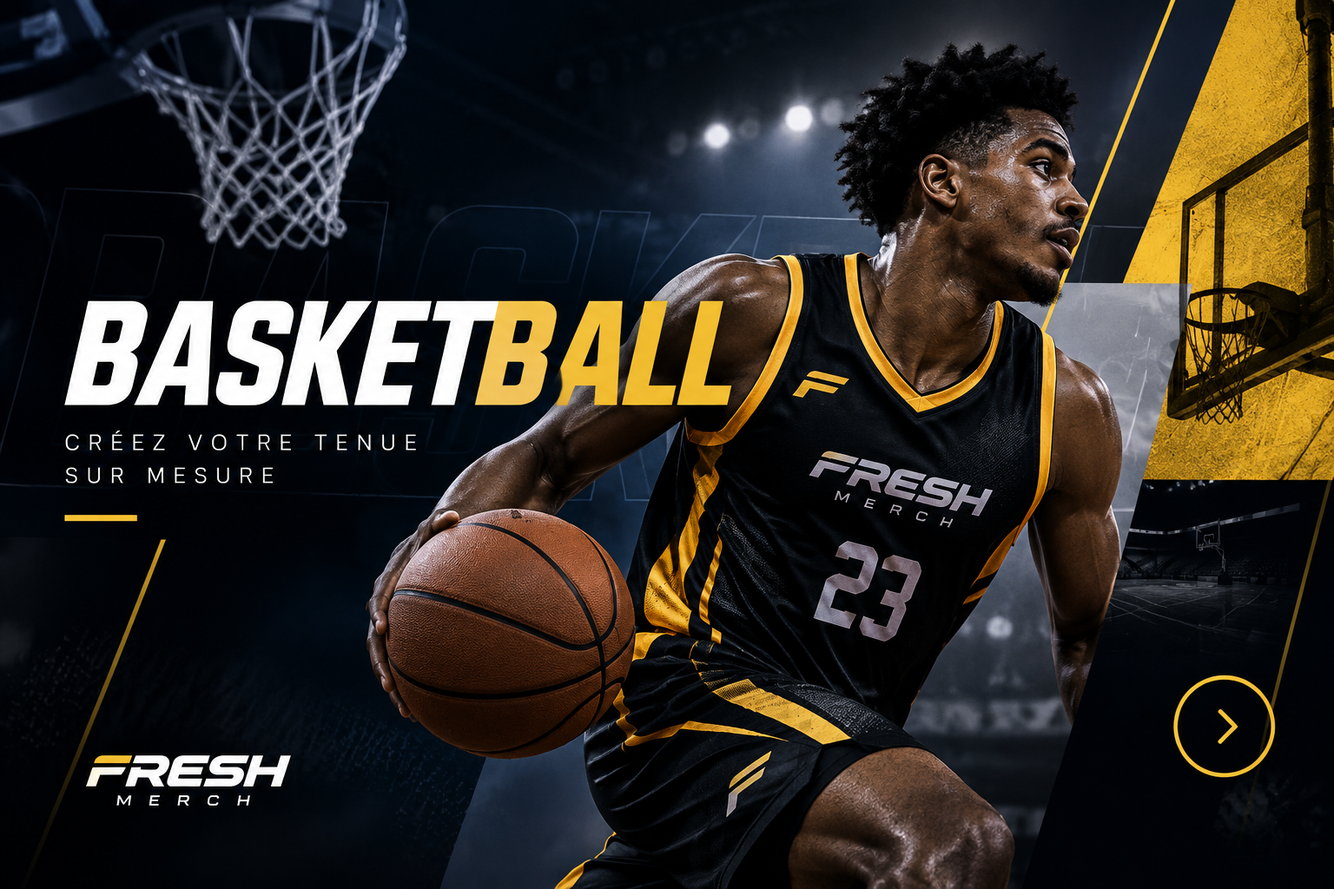
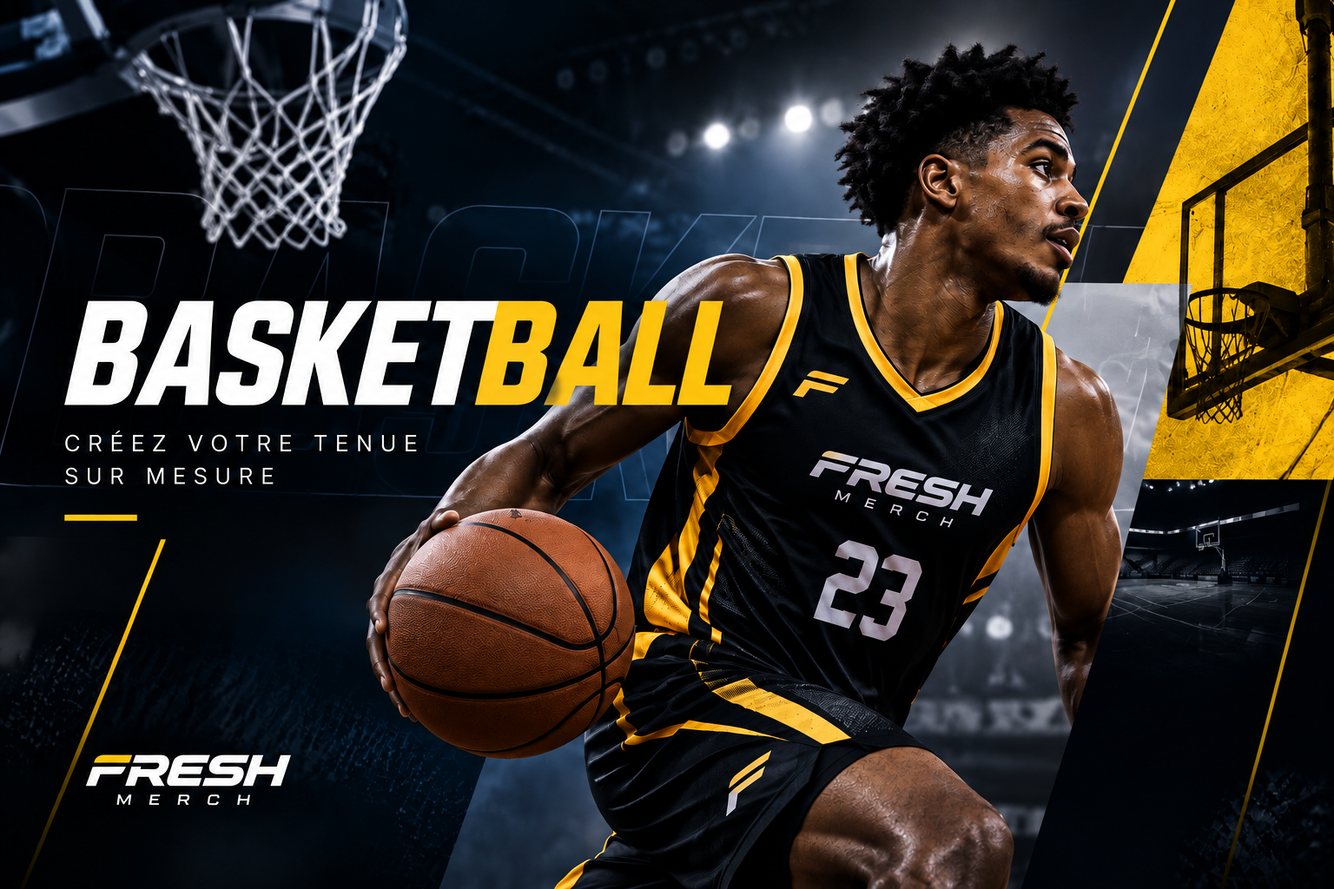
Improve mobile experience, fix layout bugs, and switch forms to FormSubmit
- Clean up and extend mobile CSS (dead selectors removed, missing
  breakpoints added, touch targets, header crowding on small phones)
- Add mobile menu accessibility (aria-modal, Escape to close, focus
  management, inert background)
- Fix stray overlay hiding a photo, remove empty sections, restore
  orphaned sport card descriptions, correct section numbering
- Link footer Instagram button to the real account
- Replace mailto: form submissions with FormSubmit so quote requests
  (including file attachments) are actually delivered by email

diff --git a/index.html b/index.html
@@ -28,14 +28,19 @@ input::placeholder,textarea::placeholder{color:rgba(255,255,255,.45)}
   #top [data-m="nav"],#top [data-m="headercta"]{display:none!important}
   #top [data-m="burger"]{display:inline-flex!important}
   #top header{padding:10px 16px!important}
-  #top [style*="padding: 110px 24px"],#top [style*="padding: 100px 24px"],#top [style*="padding: 110px 24px 90px"],#top [style*="padding: 110px 24px 60px"],#top [style*="padding: 80px 24px 100px"],#top [style*="padding: 110px 24px 80px"]{padding:64px 20px!important}
+  #top header>div{gap:12px!important}
+  #top [style*="padding: 110px 24px"],#top [style*="padding: 100px 24px"],#top [style*="padding: 110px 24px 90px"],#top [style*="padding: 80px 24px 100px"],#top [style*="padding: 110px 24px 80px"]{padding:64px 20px!important}
   #top [style*="padding: 72px 24px 40px"]{padding:40px 20px 16px!important}
+  #top [style*="padding: 40px 44px"]{padding:28px 22px!important}
   #top [style*="position: sticky"]:not(header){position:static!important;top:auto!important}
   #top [style*="min-height: 420px"]{min-height:300px!important}
-  #top [style*="grid-template-columns: minmax(0, 1.25fr) minmax(0, 0.75fr)"]{grid-template-columns:1fr!important}
   #top aside[aria-hidden="true"]{display:none!important}
   #top [style*="gap: 64px"]{gap:36px!important}
   #top footer{padding:48px 20px 20px!important}
+  #top [style*="aspect-ratio: 3 / 2"] img[style*="object-fit: cover"]{object-position:50% 22%!important}
+  #top [style*="min-height: 42px"]{min-height:44px!important}
+  #top [style*="padding: 10px 18px"]{min-height:44px;padding:12px 18px!important}
+  #top [style*="padding: 8px 14px 8px 8px"]{min-height:44px;padding:12px 16px 12px 8px!important}
 }
 @media (max-width:520px){
   #top{font-size:16px!important}
@@ -43,12 +48,16 @@ input::placeholder,textarea::placeholder{color:rgba(255,255,255,.45)}
   #top [style*="font-size: clamp(44px, 6.4vw, 84px)"],#top [style*="font-size: clamp(44px, 6.5vw, 92px)"]{font-size:clamp(36px,11vw,48px)!important}
   #top [style*="font-size: clamp(40px, 5.5vw, 76px)"]{font-size:clamp(32px,10vw,44px)!important}
   #top [style*="font-size: 19px"],#top [style*="font-size: 18px"]{font-size:16px!important}
+  #top [style*="font-size: 28px"]{font-size:22px!important}
+  #top [style*="font-size: 26px"]{font-size:21px!important}
   #top [style*="display: flex; gap: 12px; flex-wrap: wrap"] > a,#top [style*="display: flex; gap: 12px; flex-wrap: wrap"] > button{width:100%!important;justify-content:center!important}
-  #top [style*="gap: 36px; margin-top: 44px"]{gap:18px 24px!important;margin-top:28px!important}
-  #top [style*="min-height: 300px"]{min-height:240px!important}
-  #top [style*="padding: 54px 48px"]{padding:32px 24px!important}
+  #top [style*="gap: 36px; margin-top: 44px"],#top [style*="gap: 32px; margin-top: 44px"]{gap:18px 24px!important;margin-top:28px!important}
+  #top [style*="min-height: 420px"]{min-height:240px!important}
+  #top [style*="padding: 32px 28px"]{padding:22px 20px!important}
   #top [style*="aspect-ratio: 4 / 5"]{aspect-ratio:1!important}
-  #top [data-m="burger"] ~ *{margin-left:0}
+  #top header>div{gap:8px!important}
+  #top header button[aria-pressed]{padding:0!important;width:44px;height:44px;justify-content:center;min-height:44px!important}
+  #top header button[aria-pressed] span:not([aria-hidden]){display:none}
 }
 
 /* ---- MODE CLAIR : remappe les couleurs inline (sérialisées en rgb par le navigateur) ---- */
@@ -92,16 +101,16 @@ html[data-theme="light"] #top img[src*="jersey-cutout"],html[data-theme="light"]
         <a href="studio.html" style="white-space:nowrap" style-hover="color:#fff">Studio</a>
         <a href="#a-propos" style="white-space:nowrap" style-hover="color:#fff">À propos</a>
       </nav>
-      <button type="button" onClick="{{ toggleTheme }}" aria-pressed="{{ isLight }}" aria-label="{{ themeAria }}" style="display:inline-flex;align-items:center;gap:8px;min-height:42px;padding:0 14px;border-radius:999px;border:1px solid rgba(255,255,255,.18);background:transparent;color:#fff;font:inherit;font-size:12px;font-weight:700;letter-spacing:.06em;cursor:pointer;white-space:nowrap;flex-shrink:0" style-hover="border-color:#ffed00"><span aria-hidden="true" style="width:10px;height:10px;border-radius:50%;background:#ffed00;box-shadow:0 0 0 3px rgba(255,237,0,.25);flex-shrink:0"></span>{{ themeLabel }}</button>
+      <button type="button" onClick="{{ toggleTheme }}" aria-pressed="{{ isLight }}" aria-label="{{ themeAria }}" style="display:inline-flex;align-items:center;gap:8px;min-height:42px;padding:0 14px;border-radius:999px;border:1px solid rgba(255,255,255,.18);background:transparent;color:#fff;font:inherit;font-size:12px;font-weight:700;letter-spacing:.06em;cursor:pointer;white-space:nowrap;flex-shrink:0" style-hover="border-color:#ffed00"><span aria-hidden="true" style="width:10px;height:10px;border-radius:50%;background:#ffed00;box-shadow:0 0 0 3px rgba(255,237,0,.25);flex-shrink:0"></span><span>{{ themeLabel }}</span></button>
       <a data-m="headercta" href="#devis" style="position:relative;display:inline-flex;align-items:center;gap:10px;min-height:42px;padding:0 18px;border-radius:999px;background:#ffed00;color:#101827;font-size:13px;font-weight:700;white-space:nowrap;flex-shrink:0;overflow:hidden;box-shadow:0 0 0 0 rgba(255,237,0,.55);animation:fmPulse 2.8s ease-out infinite;transition:transform .25s cubic-bezier(.2,.75,.2,1),box-shadow .25s" style-hover="background:#fff45c;color:#101827;transform:translateY(-2px);box-shadow:0 10px 26px rgba(255,237,0,.35)"><span aria-hidden="true" style="position:absolute;top:0;bottom:0;left:-40%;width:40%;background:linear-gradient(100deg,transparent,rgba(255,255,255,.75),transparent);transform:skewX(-20deg);animation:fmShine 2.8s ease-in-out infinite"></span><span style="position:relative">Demander un devis</span> <span aria-hidden="true" style="position:relative;display:inline-block;transition:transform .25s cubic-bezier(.2,.75,.2,1)">↗</span></a>
-      <button data-m="burger" type="button" onClick="{{ toggleMenu }}" aria-expanded="{{ menuOpen }}" aria-label="{{ menuAria }}" style="display:none;align-items:center;justify-content:center;width:44px;height:44px;border-radius:50%;border:1px solid rgba(255,255,255,.18);background:transparent;color:#fff;cursor:pointer;flex-shrink:0;margin-left:auto"><span aria-hidden="true" style="display:flex;flex-direction:column;gap:5px"><i style="display:block;width:20px;height:2px;background:currentColor;border-radius:2px"></i><i style="display:block;width:20px;height:2px;background:currentColor;border-radius:2px"></i></span></button>
+      <button id="fm-burger-btn" data-m="burger" type="button" onClick="{{ toggleMenu }}" aria-expanded="{{ menuOpen }}" aria-label="{{ menuAria }}" style="display:none;align-items:center;justify-content:center;width:44px;height:44px;border-radius:50%;border:1px solid rgba(255,255,255,.18);background:transparent;color:#fff;cursor:pointer;flex-shrink:0;margin-left:auto"><span aria-hidden="true" style="display:flex;flex-direction:column;gap:5px"><i style="display:block;width:20px;height:2px;background:currentColor;border-radius:2px"></i><i style="display:block;width:20px;height:2px;background:currentColor;border-radius:2px"></i></span></button>
     </div>
   </header>
   <sc-if value="{{ menuOpen }}" hint-placeholder-val="{{ false }}">
-  <div data-m="menu" role="dialog" aria-label="Menu" style="position:fixed;inset:0;z-index:60;background:#020711;display:flex;flex-direction:column;padding:20px 24px 32px;overflow:auto">
+  <div id="fm-menu-panel" data-m="menu" role="dialog" aria-modal="true" aria-label="Menu" style="position:fixed;inset:0;z-index:60;background:#020711;display:flex;flex-direction:column;padding:20px 24px 32px;overflow:auto">
     <div style="display:flex;align-items:center;justify-content:space-between;gap:16px">
       <img src="assets/freshmerch-logo.png" alt="FreshMerch" style="height:30px;width:auto">
-      <button type="button" onClick="{{ toggleMenu }}" aria-label="Fermer le menu" style="width:44px;height:44px;border-radius:50%;border:1px solid rgba(255,255,255,.18);background:transparent;color:#fff;font:inherit;font-size:20px;cursor:pointer">✕</button>
+      <button id="fm-menu-close-btn" type="button" onClick="{{ toggleMenu }}" aria-label="Fermer le menu" style="width:44px;height:44px;border-radius:50%;border:1px solid rgba(255,255,255,.18);background:transparent;color:#fff;font:inherit;font-size:20px;cursor:pointer">✕</button>
     </div>
     <nav aria-label="Navigation mobile" style="display:flex;flex-direction:column;margin:auto 0;padding:32px 0">
       <a href="#accueil" onClick="{{ closeMenu }}" style="display:flex;justify-content:space-between;align-items:baseline;padding:16px 0;border-bottom:1px solid rgba(255,255,255,.13);font-family:'Space Grotesk',sans-serif;font-weight:600;font-size:clamp(30px,9vw,44px);letter-spacing:-.04em;color:#fff">Accueil<span style="font:13px 'DM Sans',sans-serif;color:#98a6bc">01</span></a>
@@ -130,7 +139,6 @@ html[data-theme="light"] #top img[src*="jersey-cutout"],html[data-theme="light"]
         <div style="display:flex;gap:36px;margin-top:44px;padding-top:22px;border-top:1px solid rgba(255,255,255,.13);flex-wrap:wrap">
           <div style="display:flex;flex-direction:column;gap:4px"><strong style="font-family:'Space Grotesk',sans-serif;font-size:22px;font-weight:600">Design</strong><span style="font-size:11px;letter-spacing:.16em;color:#98a6bc">INCLUS DANS CHAQUE PROJET</span></div>
           <div style="display:flex;flex-direction:column;gap:4px"><strong style="font-family:'Space Grotesk',sans-serif;font-size:22px;font-weight:600">48 h</strong><span style="font-size:11px;letter-spacing:.16em;color:#98a6bc">RÉPONSE AU DEVIS</span></div>
-          <div style="display:flex;flex-direction:column;gap:4px"></div>
         </div>
       </div>
 
@@ -152,7 +160,7 @@ html[data-theme="light"] #top img[src*="jersey-cutout"],html[data-theme="light"]
   <!-- UNIVERS -->
   <section data-reveal="" id="univers" style="padding:110px 24px;background:#020711">
     <div style="max-width:1240px;margin:0 auto">
-      <div style="display:flex;justify-content:space-between;align-items:end;gap:40px;flex-wrap:wrap;margin-bottom:56px">
+      <div style="display:flex;justify-content:space-between;align-items:end;gap:40px;flex-wrap:wrap;margin-bottom:48px">
         <div>
           <span style="display:inline-flex;align-items:center;gap:12px;font-size:12px;letter-spacing:.2em;font-weight:700;color:#98a6bc"><i style="width:28px;height:1px;background:#ffed00"></i>01 / UNIVERS</span>
           <h2 style="font-family:'Space Grotesk',sans-serif;font-weight:600;font-size:clamp(40px,5.5vw,76px);line-height:.95;letter-spacing:-.05em;margin:18px 0 0">Un métier,<br><em style="font-style:normal;color:#ffed00">trois façons d'y entrer.</em></h2>
@@ -187,7 +195,7 @@ html[data-theme="light"] #top img[src*="jersey-cutout"],html[data-theme="light"]
         </a>
         <a href="studio.html" data-reveal="" style="display:flex;flex-direction:column;gap:16px;color:#fff;min-width:0" style-hover="color:#fff">
           <div style="position:relative;border-radius:16px;overflow:hidden;aspect-ratio:4/5;background:radial-gradient(circle at 50% 40%,#0d2a4e,#071225 70%)">
-            <div style="position: absolute; inset: 0; z-index: 1; background-image: linear-gradient(rgba(255,255,255,.06) 1px,transparent 1px),linear-gradient(90deg,rgba(255,255,255,.06) 1px,transparent 1px); background-size: 34px 34px; pointer-events: none; left: 3px; top: -19px; background: url(&quot;./chatgpt-image-21-sept-2026-03_12_05-muajvwu3-r5yg.png&quot;) center / cover no-repeat"></div><img src="assets/jersey-banner.png" alt="" style="position:absolute;inset:0;width:100%;height:100%;object-fit:cover;object-position:78% center">
+            <img src="assets/jersey-banner.png" alt="" style="position:absolute;inset:0;width:100%;height:100%;object-fit:cover;object-position:78% center">
             <span style="position:absolute;top:16px;left:18px;font-family:'Space Grotesk',sans-serif;font-weight:600;font-size:12px;letter-spacing:.15em;color:#ffed00">03</span>
           </div>
           <div style="display:flex;flex-direction:column;gap:6px;padding:0 4px">
@@ -202,9 +210,6 @@ html[data-theme="light"] #top img[src*="jersey-cutout"],html[data-theme="light"]
   </section>
 
   <!-- SAVOIR-FAIRE -->
-  
-
-  <!-- CONTACT -->
   <section data-reveal="" id="savoir-faire" style="padding:110px 24px;background:#071225;border-top:1px solid rgba(255,255,255,.08)">
     <div style="max-width:1240px;margin:0 auto;display:grid;grid-template-columns:repeat(auto-fit,minmax(min(100%,340px),1fr));gap:64px">
       <div style="position:sticky;top:110px;align-self:start">
@@ -226,10 +231,13 @@ html[data-theme="light"] #top img[src*="jersey-cutout"],html[data-theme="light"]
         </sc-for>
       </div>
     </div>
-  </section><section data-reveal="" id="contact" style="position:relative;overflow:hidden;background-color:#071225;background-image:repeating-linear-gradient(45deg,rgba(255,255,255,.045) 0 1px,transparent 1px 7px),repeating-linear-gradient(-45deg,rgba(255,255,255,.045) 0 1px,transparent 1px 7px),radial-gradient(ellipse at 50% 0%,rgba(47,124,255,.22),transparent 60%);border-top:1px solid rgba(255,255,255,.08)">
+  </section>
+
+  <!-- CONTACT -->
+  <section data-reveal="" id="contact" style="position:relative;overflow:hidden;background-color:#071225;background-image:repeating-linear-gradient(45deg,rgba(255,255,255,.045) 0 1px,transparent 1px 7px),repeating-linear-gradient(-45deg,rgba(255,255,255,.045) 0 1px,transparent 1px 7px),radial-gradient(ellipse at 50% 0%,rgba(47,124,255,.22),transparent 60%);border-top:1px solid rgba(255,255,255,.08)">
     <div aria-hidden="true" style="position:absolute;inset:0;background:radial-gradient(ellipse at 50% 100%,rgba(255,237,0,.08),transparent 55%)"></div>
     <div style="position:relative;z-index:2;max-width:760px;margin:0 auto;padding:110px 24px;display:flex;flex-direction:column;align-items:center;text-align:center">
-      <span style="display:inline-flex;align-items:center;gap:12px;font-size:12px;letter-spacing:.2em;font-weight:700;color:#98a6bc"><i style="width:28px;height:1px;background:#ffed00"></i>04 / CONTACT<i style="width:28px;height:1px;background:#ffed00"></i></span>
+      <span style="display:inline-flex;align-items:center;gap:12px;font-size:12px;letter-spacing:.2em;font-weight:700;color:#98a6bc"><i style="width:28px;height:1px;background:#ffed00"></i>03 / CONTACT<i style="width:28px;height:1px;background:#ffed00"></i></span>
       <h2 style="font-family:'Space Grotesk',sans-serif;font-weight:600;font-size:clamp(44px,6.5vw,92px);line-height:.9;letter-spacing:-.06em;margin:22px 0 20px;text-wrap:balance">Votre prochain<br><em style="font-style:normal;color:#ffed00">projet commence ici.</em></h2>
       <p style="color:#dbe4f7;font-size:18px;line-height:1.7;margin:0 0 36px;max-width:520px;text-wrap:pretty">Un message rapide suffit pour démarrer l'échange. Pour un devis détaillé, direction la page dédiée.</p>
       <form onSubmit="{{ submitLead }}" style="display:flex;flex-direction:column;gap:16px;width:100%;max-width:600px;text-align:left">
@@ -245,7 +253,7 @@ html[data-theme="light"] #top img[src*="jersey-cutout"],html[data-theme="light"]
           <textarea name="message" rows="4" required="" placeholder="Type de textile, quantité, délai souhaité…" style="font:inherit;font-size:16px;letter-spacing:0;text-transform:none;padding:14px 16px;border-radius:12px;border:1px solid rgba(255,255,255,.28);background:rgba(255,255,255,.08);color:#fff;resize:vertical;outline:none" style-focus="border-color:#ffed00;background:rgba(255,255,255,.14)"></textarea>
         </label>
         <div style="display:flex;gap:12px;flex-wrap:wrap;align-items:center;justify-content:center;margin-top:6px">
-          <button type="submit" style="display:inline-flex;align-items:center;gap:14px;min-height:58px;padding:0 28px;border-radius:999px;border:0;background:#ffed00;color:#101827;font:inherit;font-size:14px;font-weight:700;cursor:pointer;white-space:nowrap;flex-shrink:0" style-hover="background:#fff45c">Envoyer ma demande <span aria-hidden="true">↗</span></button>
+          <button type="submit" disabled="{{ leadSending }}" style="display:inline-flex;align-items:center;gap:14px;min-height:58px;padding:0 28px;border-radius:999px;border:0;background:#ffed00;color:#101827;font:inherit;font-size:14px;font-weight:700;cursor:pointer;white-space:nowrap;flex-shrink:0" style-hover="background:#fff45c">{{ leadBtnLabel }} <span aria-hidden="true">↗</span></button>
           <a href="#devis" style="display:inline-flex;align-items:center;gap:14px;min-height:58px;padding:0 28px;border-radius:999px;border:1px solid rgba(255,255,255,.3);color:#fff;font-size:14px;font-weight:700;white-space:nowrap;flex-shrink:0" style-hover="background:rgba(255,255,255,.08);color:#fff">Devis détaillé</a>
         </div>
         <p role="status" style="margin:4px 0 0;font-size:14px;min-height:20px;color:#fff5cf;text-align:center">{{ leadStatus }}</p>
@@ -257,10 +265,6 @@ html[data-theme="light"] #top img[src*="jersey-cutout"],html[data-theme="light"]
   </sc-if>
   <sc-if value="{{ isSport }}" hint-placeholder-val="{{ false }}">
   <div data-screen-label="Sports">
-
-  <section data-reveal="" style="position:relative;overflow:hidden;background:radial-gradient(circle at 75% 20%,rgba(47,124,255,.18),transparent 40%),linear-gradient(90deg,#020711 0%,#071225 60%,#020711 100%)">
-    
-  </section>
 
   <section data-reveal="" id="sports" style="padding:100px 24px;background:#020711">
     <div style="max-width:1240px;margin:0 auto">
@@ -277,12 +281,12 @@ html[data-theme="light"] #top img[src*="jersey-cutout"],html[data-theme="light"]
             <div style="position:relative;border-radius:16px;overflow:hidden;background:#071225;aspect-ratio:3/2">
               <img src="{{ sp.img }}" alt="{{ sp.alt }}" loading="lazy" style="position:absolute;inset:0;width:100%;height:100%;object-fit:cover;transition:transform .8s cubic-bezier(.2,.75,.2,1)">
             </div>
-            <div style="display:flex;justify-content:space-between;align-items:baseline;gap:16px;padding:0 4px">
+            <div style="display:flex;flex-direction:column;gap:6px;padding:0 4px">
               <div style="display:flex;gap:14px;align-items:baseline;min-width:0">
                 <span style="font-family:'Space Grotesk',sans-serif;font-weight:600;font-size:13px;letter-spacing:.15em;color:#ffed00;flex-shrink:0">{{ sp.n }}</span>
                 <h3 style="margin:0;font-family:'Space Grotesk',sans-serif;font-weight:600;font-size:22px;letter-spacing:-.02em;line-height:1;text-transform:uppercase;color:#fff">{{ sp.name }}</h3>
               </div>
-              
+              <p style="margin:0;font-size:14px;color:#98a6bc;line-height:1.45">{{ sp.line }}</p>
             </div>
           </a>
         </sc-for>
@@ -338,7 +342,7 @@ html[data-theme="light"] #top img[src*="jersey-cutout"],html[data-theme="light"]
 
   <section data-reveal="" id="catalogue" style="padding:100px 24px;background:#f4f6f8;color:#071225">
     <div style="max-width:1240px;margin:0 auto">
-      <div style="display:flex;justify-content:space-between;align-items:end;gap:40px;flex-wrap:wrap;margin-bottom:36px">
+      <div style="display:flex;justify-content:space-between;align-items:end;gap:40px;flex-wrap:wrap;margin-bottom:48px">
         <div>
           <span style="display:inline-flex;align-items:center;gap:12px;font-size:12px;letter-spacing:.2em;font-weight:700;color:#647087"><i style="width:28px;height:1px;background:#2f7cff"></i>01 / CATALOGUE</span>
           <h2 style="font-family:'Space Grotesk',sans-serif;font-weight:600;font-size:clamp(40px,5.5vw,76px);line-height:.95;letter-spacing:-.05em;margin:18px 0 0">Une gamme pensée<br><em style="font-style:normal;color:#2f7cff">pour chaque usage.</em></h2>
@@ -497,11 +501,11 @@ html[data-theme="light"] #top img[src*="jersey-cutout"],html[data-theme="light"]
         <sc-if value="{{ sent }}" hint-placeholder-val="{{ false }}">
           <div role="status" style="display:flex;gap:14px;padding:20px 22px;border-radius:14px;margin-bottom:28px;background:rgba(46,160,90,.1);border:1px solid rgba(46,160,90,.35);color:#1d5f38;font-size:15px;line-height:1.6">
             <span aria-hidden="true" style="flex-shrink:0;width:30px;height:30px;border-radius:50%;background:#2ea05a;color:#fff;display:grid;place-items:center;font-weight:700">✓</span>
-            <div><strong style="display:block;font-family:'Space Grotesk',sans-serif;margin-bottom:4px">Votre messagerie s'ouvre avec la demande pré-remplie.</strong>Cliquez sur « Envoyer » et joignez vos fichiers. Rien ne s'est ouvert ? <button type="button" onClick="{{ copyRecap }}" style="border:0;background:none;padding:0;font:inherit;font-weight:700;color:#2f7cff;cursor:pointer;text-decoration:underline">Copier le récapitulatif</button> {{ copyStatus }}</div>
+            <div><strong style="display:block;font-family:'Space Grotesk',sans-serif;margin-bottom:4px">Votre demande a bien été envoyée.</strong>Nous revenons vers vous sous 48 h ouvrées. <button type="button" onClick="{{ copyRecap }}" style="border:0;background:none;padding:0;font:inherit;font-weight:700;color:#2f7cff;cursor:pointer;text-decoration:underline">Copier le récapitulatif</button> {{ copyStatus }}</div>
           </div>
         </sc-if>
         <sc-if value="{{ hasError }}" hint-placeholder-val="{{ false }}">
-          <div role="alert" style="padding:16px 20px;border-radius:14px;margin-bottom:28px;background:rgba(192,57,43,.08);border:1px solid rgba(192,57,43,.3);color:#8a2a20;font-size:15px">{{ error }}</div>
+          <div role="alert" style="padding:16px 20px;border-radius:14px;margin-bottom:28px;background:rgba(192,57,43,.08);border:1px solid rgba(192,57,43,.3);color:#8a2a20;font-size:15px">{{ error }} <button type="button" onClick="{{ copyRecap }}" style="border:0;background:none;padding:0;font:inherit;font-weight:700;color:#8a2a20;cursor:pointer;text-decoration:underline">Copier le récapitulatif</button> {{ copyStatus }}</div>
         </sc-if>
 
         <fieldset id="fs-1" style="border:0;margin:0;padding:0 0 34px;display:flex;flex-direction:column;gap:16px">
@@ -520,7 +524,7 @@ html[data-theme="light"] #top img[src*="jersey-cutout"],html[data-theme="light"]
           <div style="display:grid;grid-template-columns:repeat(auto-fit,minmax(min(100%,240px),1fr));gap:16px;clear:both">
             <label style="display:flex;flex-direction:column;gap:8px;font-size:12px;letter-spacing:.14em;text-transform:uppercase;color:#3c4a63"><span>Type de projet <b style="color:#c0392b">*</b></span><select name="type_de_projet" required="" defaultValue="{{ defaultType }}" style="font:inherit;font-size:16px;letter-spacing:0;text-transform:none;padding:14px 16px;border-radius:12px;border:1px solid rgba(8,18,37,.15);background:#fff;color:#071225;outline:none" style-focus="border-color:#2f7cff"><option value="">Sélectionnez…</option><option>Textile personnalisé (t-shirts, sweats, polos…)</option><option>Sport &amp; sublimation (maillots, tenues d'équipe)</option><option>Événementiel</option><option>Autre / je ne sais pas encore</option></select></label>
             <label style="display:flex;flex-direction:column;gap:8px;font-size:12px;letter-spacing:.14em;text-transform:uppercase;color:#3c4a63"><span>Produit(s) recherché(s) <b style="color:#c0392b">*</b></span><input name="produit" required="" defaultValue="{{ defaultProduct }}" placeholder="ex : maillots de football, sweats zippés…" style="font:inherit;font-size:16px;letter-spacing:0;text-transform:none;padding:14px 16px;border-radius:12px;border:1px solid rgba(8,18,37,.15);background:#fff;color:#071225;outline:none" style-focus="border-color:#2f7cff"></label>
-            <label style="display:flex;flex-direction:column;gap:8px;font-size:12px;letter-spacing:.14em;text-transform:uppercase;color:#3c4a63"><span>Quantité estimée</span><input name="quantite" placeholder="ex : 25 pièces" style="font:inherit;font-size:16px;letter-spacing:0;text-transform:none;padding:14px 16px;border-radius:12px;border:1px solid rgba(8,18,37,.15);background:#fff;color:#071225;outline:none" style-focus="border-color:#2f7cff"></label>
+            <label style="display:flex;flex-direction:column;gap:8px;font-size:12px;letter-spacing:.14em;text-transform:uppercase;color:#3c4a63"><span>Quantité estimée</span><input name="quantite" inputMode="numeric" placeholder="ex : 25 pièces" style="font:inherit;font-size:16px;letter-spacing:0;text-transform:none;padding:14px 16px;border-radius:12px;border:1px solid rgba(8,18,37,.15);background:#fff;color:#071225;outline:none" style-focus="border-color:#2f7cff"></label>
             <label style="display:flex;flex-direction:column;gap:8px;font-size:12px;letter-spacing:.14em;text-transform:uppercase;color:#3c4a63"><span>Délai souhaité</span><select name="delai_souhaite" style="font:inherit;font-size:16px;letter-spacing:0;text-transform:none;padding:14px 16px;border-radius:12px;border:1px solid rgba(8,18,37,.15);background:#fff;color:#071225;outline:none" style-focus="border-color:#2f7cff"><option value="">Sélectionnez…</option><option>Moins de 2 semaines</option><option>2 à 4 semaines</option><option>1 à 2 mois</option><option>Pas de contrainte particulière</option></select></label>
           </div>
           <label style="display:flex;flex-direction:column;gap:8px;font-size:12px;letter-spacing:.14em;text-transform:uppercase;color:#3c4a63"><span>Décrivez votre projet <b style="color:#c0392b">*</b></span><textarea name="description" rows="5" required="" placeholder="Couleurs, logo, noms et numéros, technique souhaitée, contraintes…" style="font:inherit;font-size:16px;letter-spacing:0;text-transform:none;padding:14px 16px;border-radius:12px;border:1px solid rgba(8,18,37,.15);background:#fff;color:#071225;outline:none;resize:vertical" style-focus="border-color:#2f7cff"></textarea></label>
@@ -533,8 +537,8 @@ html[data-theme="light"] #top img[src*="jersey-cutout"],html[data-theme="light"]
             <span style="display:block;margin-top:6px;font-size:13px;color:#647087">{{ filesLabel }}</span>
             <input name="fichiers" type="file" multiple="" accept=".pdf,.png,.jpg,.jpeg,.svg,.zip" onChange="{{ onFiles }}" style="display:none">
           </label>
-          <label style="display:flex;align-items:flex-start;gap:10px;font-size:15px;color:#3c4a63"><input name="consentement" type="checkbox" required="" style="width:18px;height:18px;margin-top:3px;flex-shrink:0">J'accepte d'être recontacté(e) par FreshMerch au sujet de ma demande. <b style="color:#c0392b">*</b></label>
-          <button type="submit" style="align-self:flex-start;display:inline-flex;align-items:center;gap:14px;min-height:58px;padding:0 28px;border-radius:999px;border:0;background:#ffed00;color:#101827;font:inherit;font-size:14px;font-weight:700;cursor:pointer;margin-top:8px;white-space:nowrap;flex-shrink:0" style-hover="background:#fff45c">Envoyer ma demande <span aria-hidden="true">↗</span></button>
+          <label style="display:flex;align-items:flex-start;gap:10px;font-size:15px;color:#3c4a63"><input name="consentement" type="checkbox" required="" style="width:22px;height:22px;margin-top:0;flex-shrink:0">J'accepte d'être recontacté(e) par FreshMerch au sujet de ma demande. <b style="color:#c0392b">*</b></label>
+          <button type="submit" disabled="{{ sending }}" style="align-self:flex-start;display:inline-flex;align-items:center;gap:14px;min-height:58px;padding:0 28px;border-radius:999px;border:0;background:#ffed00;color:#101827;font:inherit;font-size:14px;font-weight:700;cursor:pointer;margin-top:8px;white-space:nowrap;flex-shrink:0" style-hover="background:#fff45c">{{ submitBtnLabel }} <span aria-hidden="true">↗</span></button>
         </fieldset>
       </form>
         <p style="margin:0;font-size:13px;color:#647087;line-height:1.6">Les champs marqués <b style="color:#c0392b">*</b> sont obligatoires. Vous préférez écrire directement ? <a href="mailto:jules.frescaline@gmail.com" style="color:#2f7cff;font-weight:700">jules.frescaline@gmail.com</a></p>
@@ -561,7 +565,7 @@ html[data-theme="light"] #top img[src*="jersey-cutout"],html[data-theme="light"]
         </div>
         <div style="display:grid;grid-template-columns:repeat(auto-fit,minmax(min(100%,200px),1fr));gap:30px;flex:1;max-width:680px;min-width:0">
           <div style="display:flex;flex-direction:column;gap:10px;font-size:14px;color:#98a6bc"><span style="font-size:11px;letter-spacing:.18em;margin-bottom:6px">EXPLORER</span><a href="#sport">Sports</a><a href="#textile">Textile</a><a href="studio.html">Studio 3D</a></div>
-          <div style="display:flex;flex-direction:column;gap:10px;font-size:14px;color:#98a6bc"><span style="font-size:11px;letter-spacing:.18em;margin-bottom:6px">PROJET</span><a href="#a-propos">À propos</a></div><div style="display:flex;flex-direction:column;gap:10px;font-size:14px;color:#98a6bc"><span style="font-size:11px;letter-spacing:.18em;margin-bottom:6px">CONTACT</span><a href="mailto:jules.frescaline@gmail.com" style="overflow-wrap:anywhere;min-width:0">jules.frescaline@gmail.com</a><a href="#devis">Demander un devis</a><a href="https://www.instagram.com/" target="_blank" rel="noopener" style="display: inline-flex; align-items: center; gap: 8px; width: 207px; height: 47px"><svg width="16" height="16" viewBox="0 0 24 24" fill="none" stroke="currentColor" stroke-width="2" stroke-linecap="round" aria-hidden="true"><rect x="3" y="3" width="18" height="18" rx="5"></rect><circle cx="12" cy="12" r="4"></circle><circle cx="17.5" cy="6.5" r="1" fill="currentColor" stroke="none"></circle></svg><span style="min-width:0">Visiter notre page Insta</span></a></div>
+          <div style="display:flex;flex-direction:column;gap:10px;font-size:14px;color:#98a6bc"><span style="font-size:11px;letter-spacing:.18em;margin-bottom:6px">PROJET</span><a href="#a-propos">À propos</a></div><div style="display:flex;flex-direction:column;gap:10px;font-size:14px;color:#98a6bc"><span style="font-size:11px;letter-spacing:.18em;margin-bottom:6px">CONTACT</span><a href="mailto:jules.frescaline@gmail.com" style="overflow-wrap:anywhere;min-width:0">jules.frescaline@gmail.com</a><a href="#devis">Demander un devis</a><a href="https://www.instagram.com/jules_frsc/" target="_blank" rel="noopener" style="display: inline-flex; align-items: center; gap: 8px; width: 207px; height: 47px"><svg width="16" height="16" viewBox="0 0 24 24" fill="none" stroke="currentColor" stroke-width="2" stroke-linecap="round" aria-hidden="true"><rect x="3" y="3" width="18" height="18" rx="5"></rect><circle cx="12" cy="12" r="4"></circle><circle cx="17.5" cy="6.5" r="1" fill="currentColor" stroke="none"></circle></svg><span style="min-width:0">Visiter notre page Insta</span></a></div>
           
         </div>
       </div>
@@ -574,7 +578,7 @@ html[data-theme="light"] #top img[src*="jersey-cutout"],html[data-theme="light"]
 </x-dc>
 <script type="text/x-dc" data-dc-script data-props='{"showMarquee":{"editor":"boolean","default":true,"tsType":"boolean","section":"Accueil"}}'>
 class Component extends DCLogic {
-  state = { route: "accueil", query: {}, menuOpen: false, videoIntro: true, slide: 0, leadStatus: "", cat: "", sent: false, error: "", files: [], recap: "", copyStatus: "" };
+  state = { route: "accueil", query: {}, menuOpen: false, videoIntro: true, slide: 0, leadStatus: "", leadSending: false, cat: "", sent: false, sending: false, error: "", files: [], recap: "", copyStatus: "" };
   routes = ["accueil", "sport", "textile", "a-propos", "devis"];
   lastRoute = "accueil";
   theme = (() => { try { return localStorage.getItem("freshmerch-theme") === "light" ? "light" : "dark"; } catch (e) { return "dark"; } })();
@@ -593,14 +597,19 @@ class Component extends DCLogic {
       if (!r) return; // ancre interne (#catalogue…) : on laisse le navigateur défiler
       if (r.route !== this.state.route) window.scrollTo(0, 0);
       document.body.style.overflow = "";
+      this.setBgInert(false);
       this.setState({ ...r, sent: false, error: "", menuOpen: false });
     };
     window.addEventListener("hashchange", this.onHash);
+    this.onKeydown = (e) => { if (e.key === "Escape" && this.state.menuOpen) this.closeMenu(); };
+    window.addEventListener("keydown", this.onKeydown);
     this.applyTheme();
     this.slideTimer = setInterval(() => this.setState(s => ({ slide: (s.slide + 1) % 6 })), 3200);
     this.reveal();
   }
-  componentWillUnmount() { window.removeEventListener("hashchange", this.onHash); clearInterval(this.slideTimer); }
+  componentWillUnmount() { window.removeEventListener("hashchange", this.onHash); window.removeEventListener("keydown", this.onKeydown); clearInterval(this.slideTimer); }
+  setBgInert(v) { const top = document.getElementById("top"); if (!top) return; Array.from(top.children).forEach(el => { if (el.id !== "fm-menu-panel") el.inert = v; }); }
+  closeMenu() { document.body.style.overflow = ""; this.setBgInert(false); this.setState({ menuOpen: false }); setTimeout(() => { const b = document.getElementById("fm-burger-btn"); if (b) b.focus(); }, 20); }
   componentDidUpdate() { if (this.state.route !== this.lastRoute) { this.lastRoute = this.state.route; setTimeout(() => this.reveal(), 30); } }
   renderVals() {
     const { route, query } = this.state;
@@ -633,8 +642,14 @@ class Component extends DCLogic {
       year: new Date().getFullYear(),
       isLight: this.theme === "light", themeLabel: this.theme === "light" ? "Mode sombre" : "Mode clair", themeAria: this.theme === "light" ? "Activer le mode sombre" : "Activer le mode clair",
       menuOpen: this.state.menuOpen, menuAria: this.state.menuOpen ? "Fermer le menu" : "Ouvrir le menu",
-      toggleMenu: () => this.setState(s => { document.body.style.overflow = s.menuOpen ? "" : "hidden"; return { menuOpen: !s.menuOpen }; }),
-      closeMenu: () => { document.body.style.overflow = ""; this.setState({ menuOpen: false }); },
+      toggleMenu: () => this.setState(s => {
+        const opening = !s.menuOpen;
+        document.body.style.overflow = opening ? "hidden" : "";
+        this.setBgInert(opening);
+        setTimeout(() => { const el = document.getElementById(opening ? "fm-menu-close-btn" : "fm-burger-btn"); if (el) el.focus(); }, 20);
+        return { menuOpen: opening };
+      }),
+      closeMenu: () => this.closeMenu(),
       showIntro: this.state.videoIntro,
       skipIntro: () => this.setState({ videoIntro: false }),
       toggleTheme: () => { this.theme = this.theme === "light" ? "dark" : "light"; this.applyTheme(); this.forceUpdate(); },
@@ -664,12 +679,20 @@ class Component extends DCLogic {
         { n: "05", title: "Contrôle qualité", text: "Un regard sur chaque détail avant que le textile arrive sur le terrain." }
       ],
       leadStatus: this.state.leadStatus,
+      leadSending: this.state.leadSending,
+      leadBtnLabel: this.state.leadSending ? "Envoi…" : "Envoyer ma demande",
       submitLead: (e) => {
         e.preventDefault();
-        const f = new FormData(e.target);
-        const body = `Nom : ${f.get("name")}\nEmail : ${f.get("email")}\n\nProjet :\n${f.get("message")}`;
-        window.location.href = `mailto:jules.frescaline@gmail.com?subject=${encodeURIComponent("Nouveau projet FreshMerch")}&body=${encodeURIComponent(body)}`;
-        this.setState({ leadStatus: "Votre messagerie s'ouvre avec la demande pré-remplie." });
+        if (this.state.leadSending) return;
+        const form = e.target;
+        const f = new FormData(form);
+        f.append("_subject", "Nouveau message FreshMerch — " + f.get("name"));
+        f.append("_captcha", "false");
+        f.append("_template", "table");
+        this.setState({ leadSending: true, leadStatus: "Envoi en cours…" });
+        fetch("https://formsubmit.co/ajax/jules.frescaline@gmail.com", { method: "POST", body: f, headers: { Accept: "application/json" } })
+          .then((r) => { if (!r.ok) throw new Error(); form.reset(); this.setState({ leadSending: false, leadStatus: "Message envoyé — nous revenons vers vous rapidement." }); })
+          .catch(() => this.setState({ leadSending: false, leadStatus: "Échec de l'envoi. Réessayez, ou écrivez-nous directement à jules.frescaline@gmail.com." }));
       },
       // Sport
       sports: sportsData.map(([name, file], i) => ({ n: String(i + 1).padStart(2, "0"), name, lower: name.toLowerCase(), line: lines[name], img: `assets/sports-photos/${file}.jpg`, alt: `Visuel FreshMerch ${name.toLowerCase()}`, href: q(name), span: "auto" })),
@@ -703,20 +726,27 @@ class Component extends DCLogic {
       defaultProduct: sport ? `Maillots ${sport}` : "",
       stepsNav: [["1","Vous"],["2","Projet"],["3","Envoi"]].map(([n,label]) => ({ n, label, href: `#fs-${n}` })),
       sent: this.state.sent, hasError: !!this.state.error, error: this.state.error, copyStatus: this.state.copyStatus,
+      sending: this.state.sending, submitBtnLabel: this.state.sending ? "Envoi…" : "Envoyer ma demande",
       filesLabel: this.state.files.length ? this.state.files.join(", ") : "PDF, PNG, JPG, SVG, ZIP — 10 Mo max par fichier",
       onFiles: (e) => this.setState({ files: Array.from(e.target.files).map(f => f.name) }),
       copyRecap: async () => { try { await navigator.clipboard.writeText(this.state.recap); this.setState({ copyStatus: "Copié !" }); } catch { this.setState({ copyStatus: "Copie impossible — sélectionnez le texte manuellement." }); } },
       submit: (e) => {
         e.preventDefault();
+        if (this.state.sending) return;
         const form = e.target;
         const missing = Array.from(form.querySelectorAll("[required]")).filter(el => el.type === "checkbox" ? !el.checked : !el.value.trim());
         if (missing.length) { this.setState({ error: "Merci de compléter les champs obligatoires (*) avant d'envoyer.", sent: false }); missing[0].focus(); return; }
         const f = new FormData(form);
         const linesOut = fields.map(([k, l]) => f.get(k) ? `${l} : ${f.get(k)}` : null).filter(Boolean);
-        if (this.state.files.length) linesOut.push(`\nFichiers à joindre : ${this.state.files.join(", ")}`);
+        if (this.state.files.length) linesOut.push(`\nFichiers joints : ${this.state.files.join(", ")}`);
         const recap = linesOut.join("\n");
-        window.location.href = `mailto:jules.frescaline@gmail.com?subject=${encodeURIComponent("Demande de devis FreshMerch — " + f.get("prenom") + " " + f.get("nom"))}&body=${encodeURIComponent(recap)}`;
-        this.setState({ sent: true, error: "", recap });
+        f.append("_subject", "Demande de devis FreshMerch — " + f.get("prenom") + " " + f.get("nom"));
+        f.append("_captcha", "false");
+        f.append("_template", "table");
+        this.setState({ sending: true, error: "", recap });
+        fetch("https://formsubmit.co/ajax/jules.frescaline@gmail.com", { method: "POST", body: f, headers: { Accept: "application/json" } })
+          .then((r) => { if (!r.ok) throw new Error(); this.setState({ sending: false, sent: true, error: "" }); })
+          .catch(() => this.setState({ sending: false, sent: false, error: "Échec de l'envoi de votre demande. Réessayez, ou copiez le récapitulatif ci-dessous et écrivez-nous directement à jules.frescaline@gmail.com." }));
       }
     };
   }
